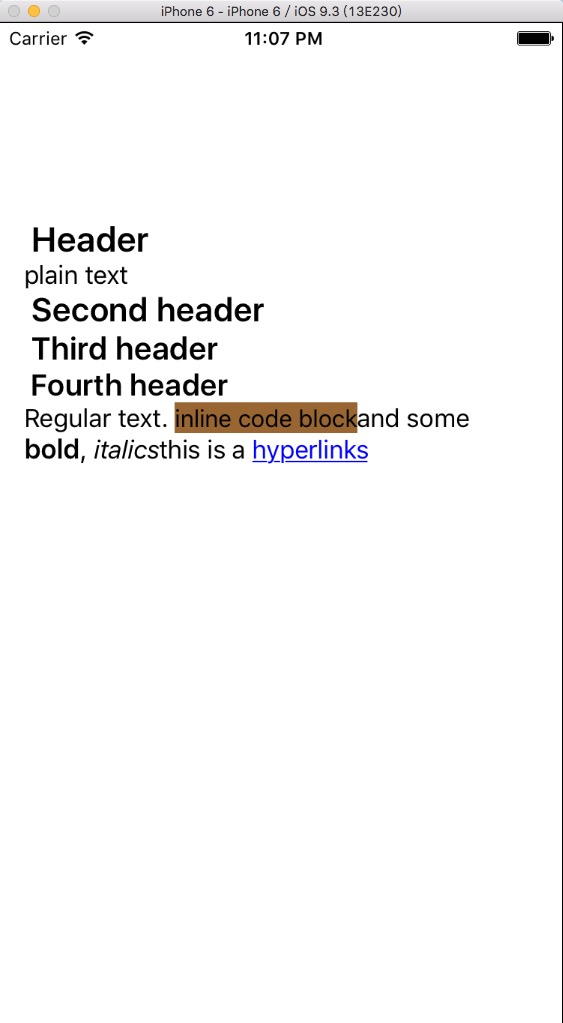
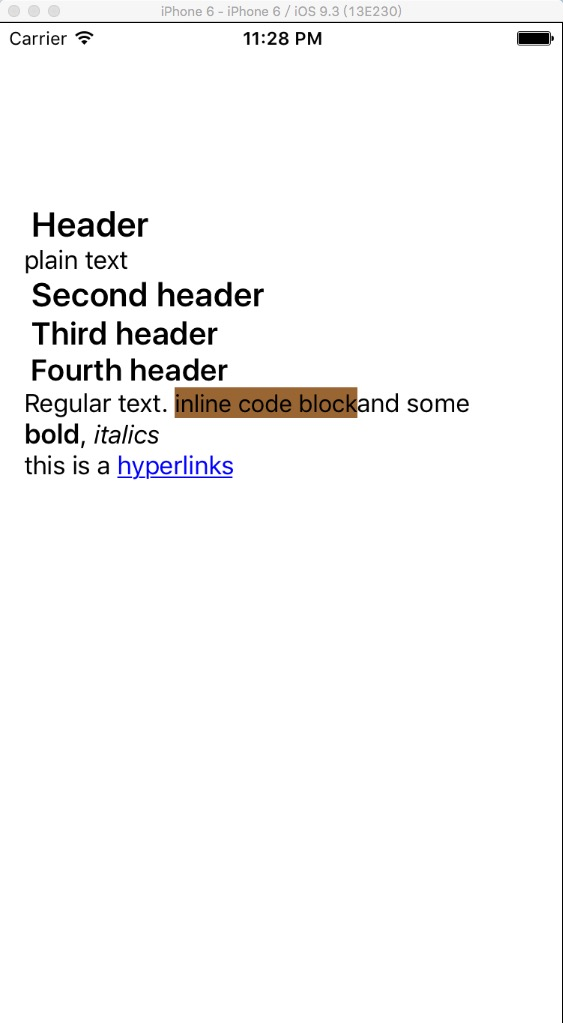
fixed newline bugs

Changed region(s): [[0.0302, 0.2121, 0.8455, 0.4848], [0.0, 0.0, 1.0, 0.0606]]

diff --git a/SwiftyDownExample/SwiftyDownExample/Parser.swift b/SwiftyDownExample/SwiftyDownExample/Parser.swift
@@ -215,7 +215,7 @@ func space(includeNewLine : Bool = true)->Parser<String>{
 
 func symbol(sym : String) -> Parser<String>{
     return string(sym) >>= { sym in
-        space() >>= { _ in
+        space(false) >>= { _ in
             pure(sym)
         }
     }
